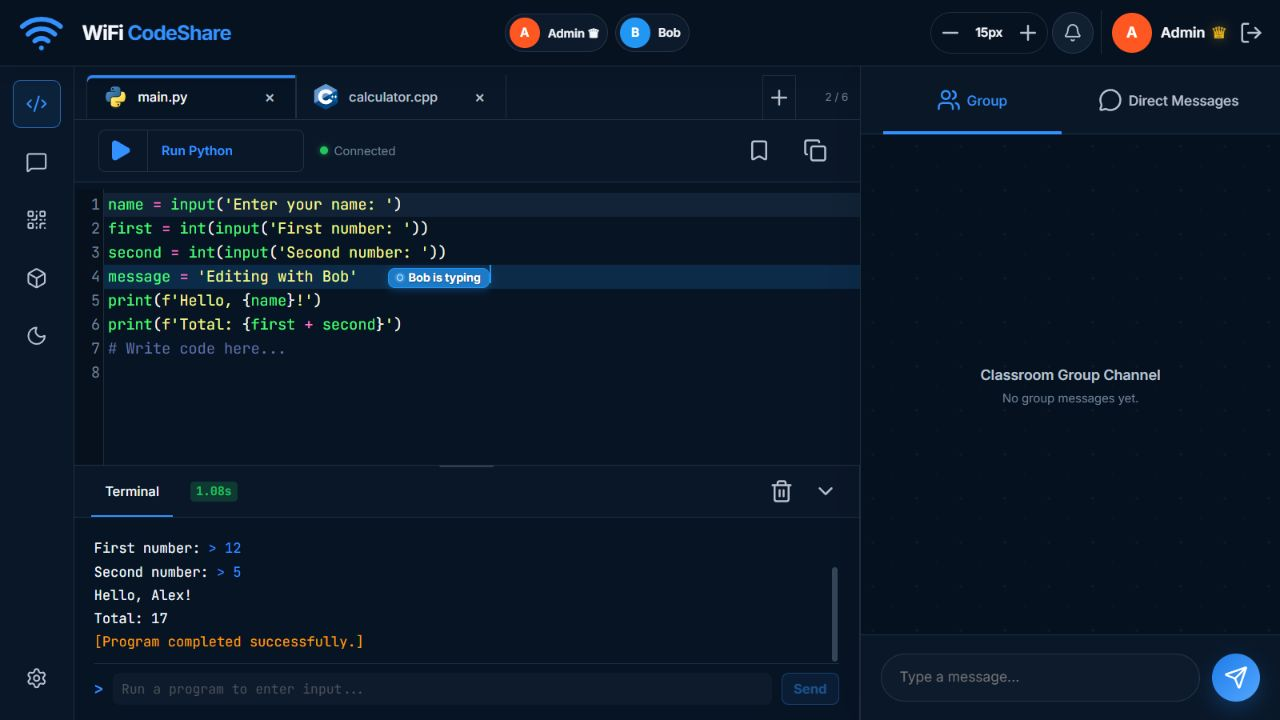
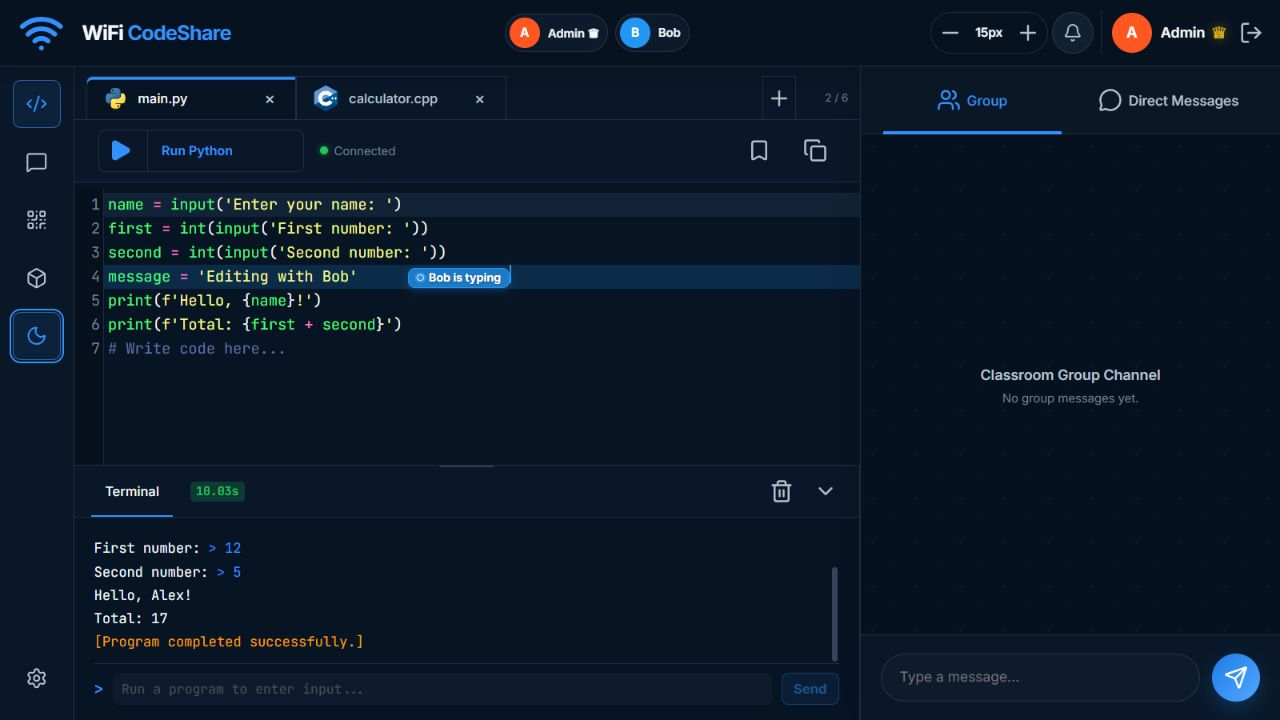
fix: position typing labels after remote carets

diff --git a/static/style.css b/static/style.css
@@ -1111,7 +1111,7 @@ body.is-resizing {
   z-index: 8;
   max-width: min(190px, 32vw);
   min-height: 20px;
-  margin-left: 12px;
+  margin-left: 3ch;
   padding: 2px 8px;
   overflow: hidden;
   border: 1px solid var(--typing-color);

diff --git a/test_app.py b/test_app.py
@@ -921,6 +921,7 @@ class LiveEditorTestCase(unittest.TestCase):
         self.assertIn(".line-typing-badge", stylesheet)
         self.assertIn("--typing-color", stylesheet)
         self.assertIn(".line-typing-badge-label", stylesheet)
+        self.assertIn("margin-left: 3ch;", stylesheet)
         self.assertIn("4.2.1-line-typing-labels-1", html)
 
 

diff --git a/README.md b/README.md
@@ -8,11 +8,11 @@ updates are synchronized for connected users in real time.
 ## Version 4.2.1 — Exact-Line Typing Labels
 
 Version 4.2.1 shows who is actively editing each code line. A compact label such
-as **Bob is typing** appears beside the exact line, uses Bob's selected colour,
-and shares the line's subtle colour highlight. The label disappears when Bob
-stops typing, changes lines or files, or disconnects. Remote cursors remain
-name-free, and the Version 4.2 Guest-name validation and interface corrections
-remain unchanged.
+as **Bob is typing** appears three character spaces after Bob's caret on the
+exact line, uses Bob's selected colour, and shares the line's subtle colour
+highlight. The label disappears when Bob stops typing, changes lines or files,
+or disconnects. Remote cursors remain name-free, and the Version 4.2 Guest-name
+validation and interface corrections remain unchanged.
 
 Read the [changelog](CHANGELOG.md) for the complete feature history, detailed
 changes, security notes, and previous releases.

diff --git a/CHANGELOG.md b/CHANGELOG.md
@@ -12,6 +12,8 @@ typing highlight without restoring the old floating cursor-name cloud.
 
 - Added a colour-matched **Name is typing** label beside the exact code line a
   remote participant is editing.
+- Positioned the label three character spaces after the participant's caret so
+  the caret stays clearly visible before the name.
 - Kept each label inline after the line's code so it does not cover the source
   text, with long names shortened visually when space is limited.
 - Preserved the subtle full-line colour highlight and name-free remote caret.
